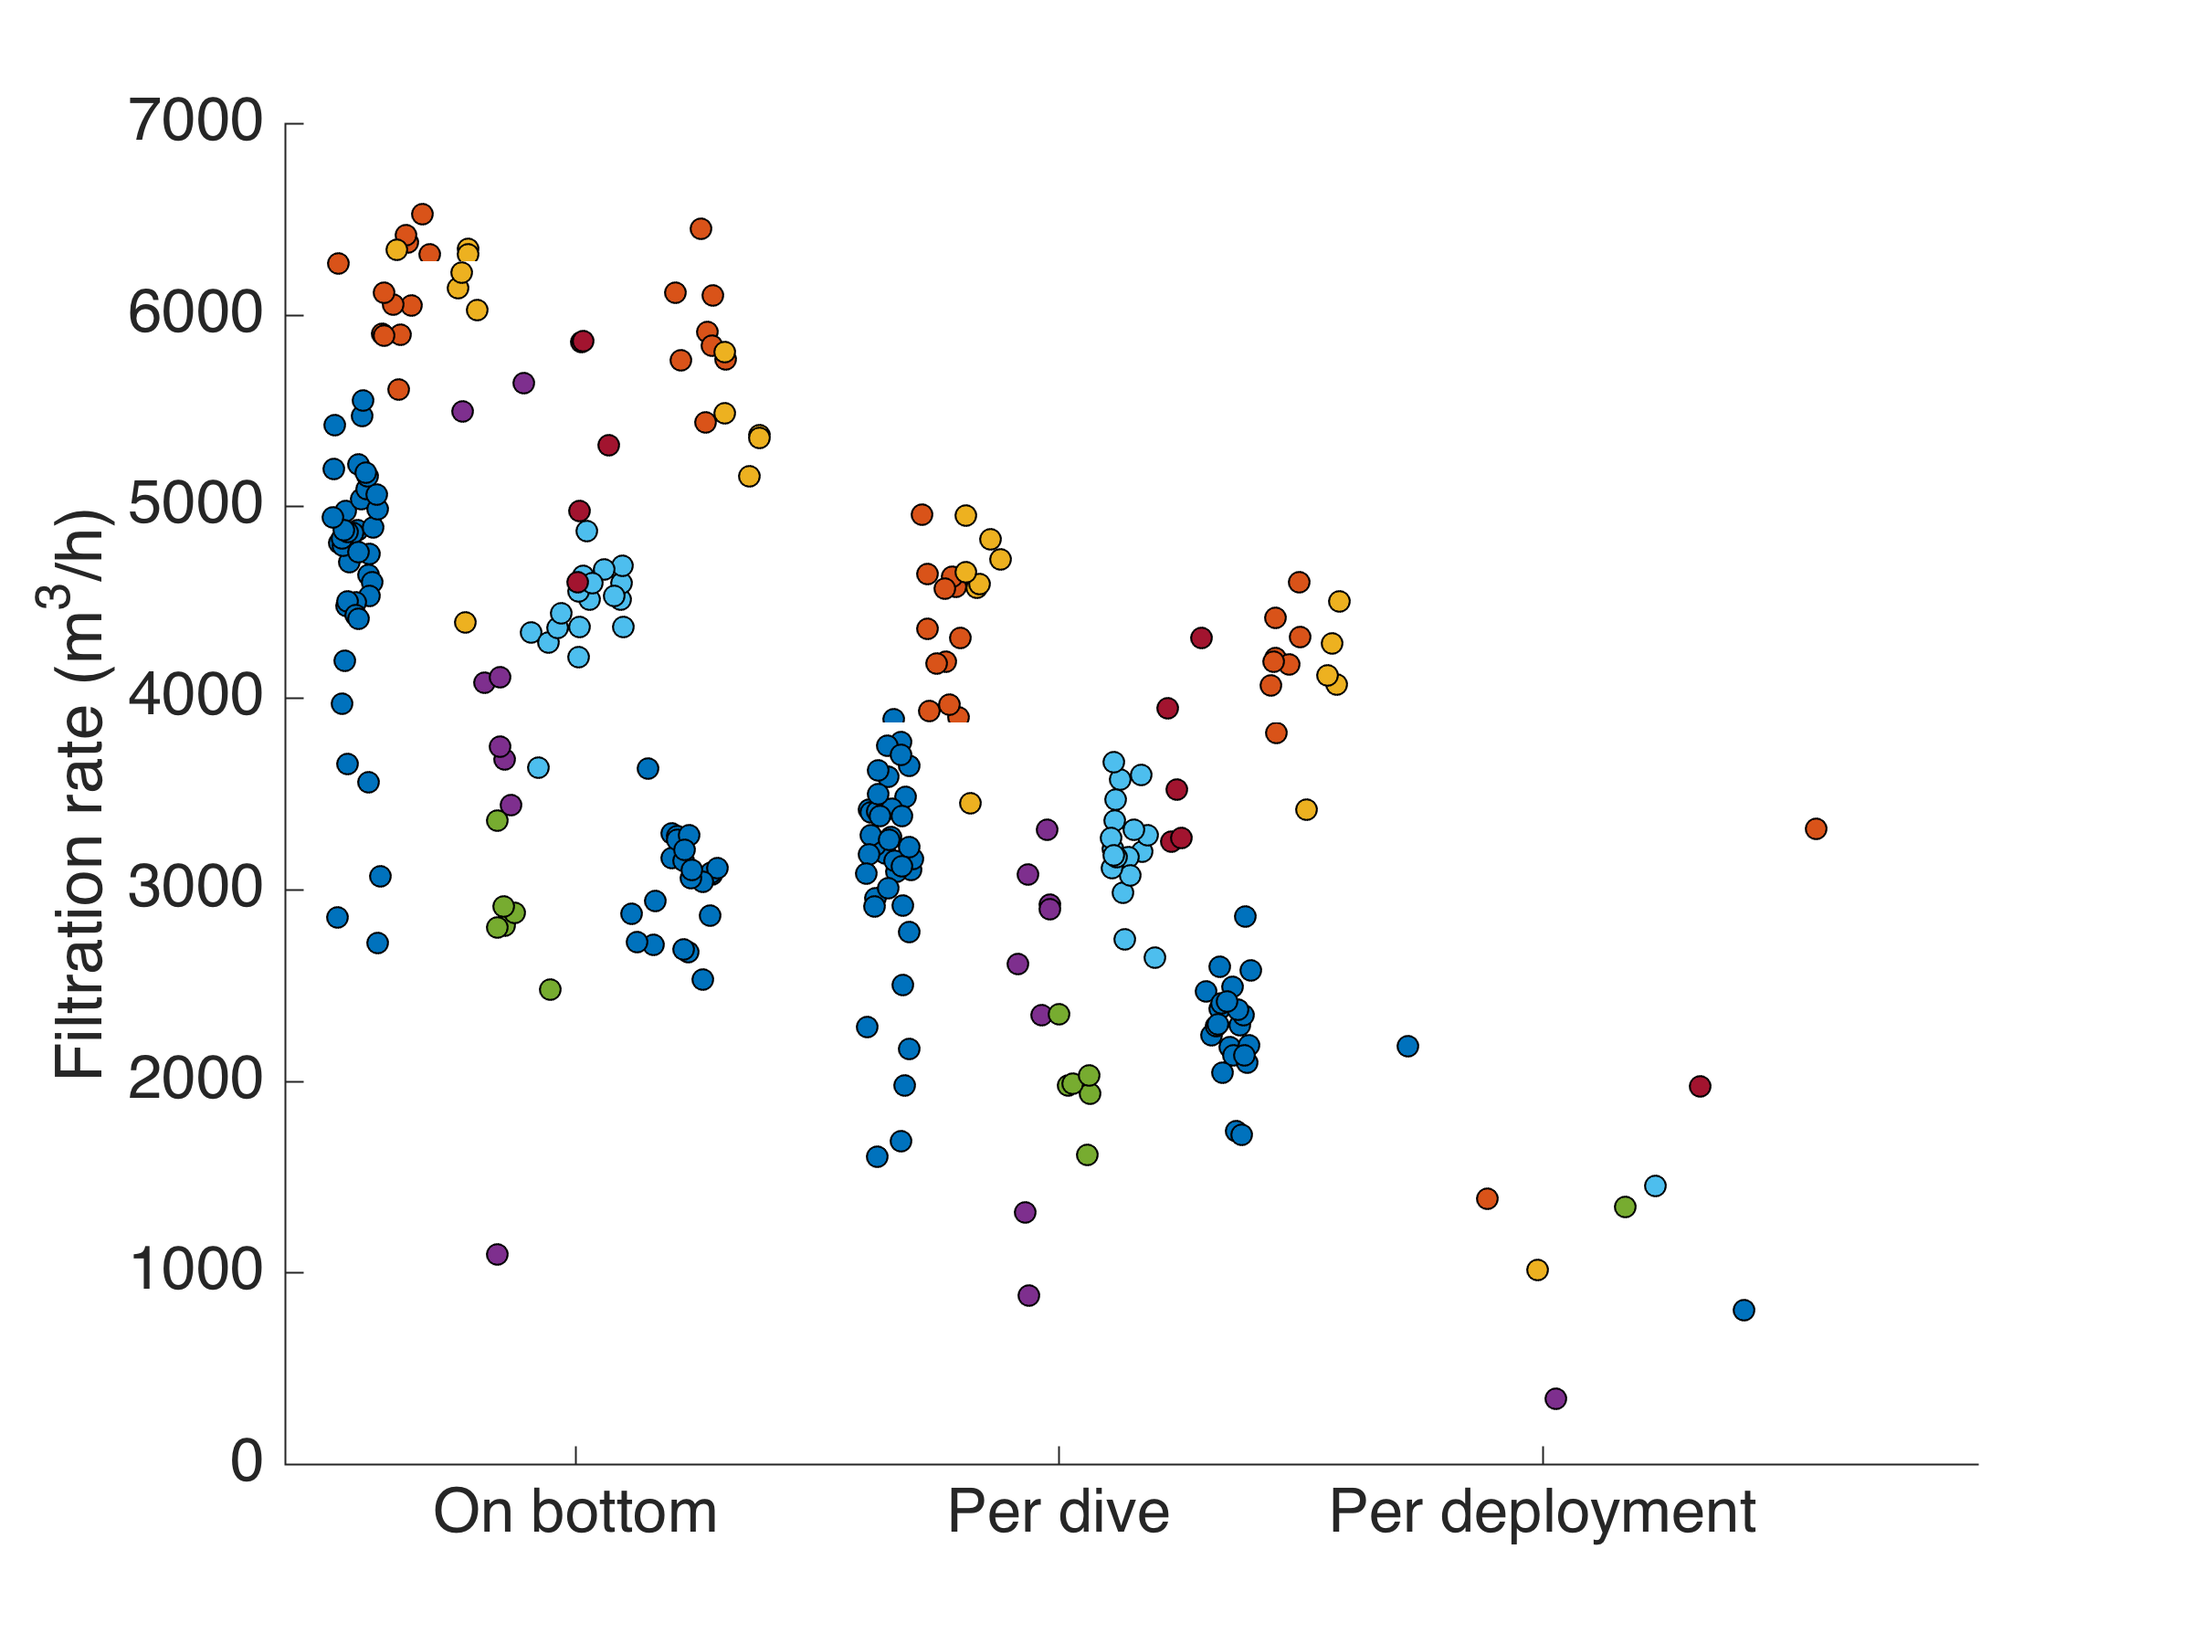
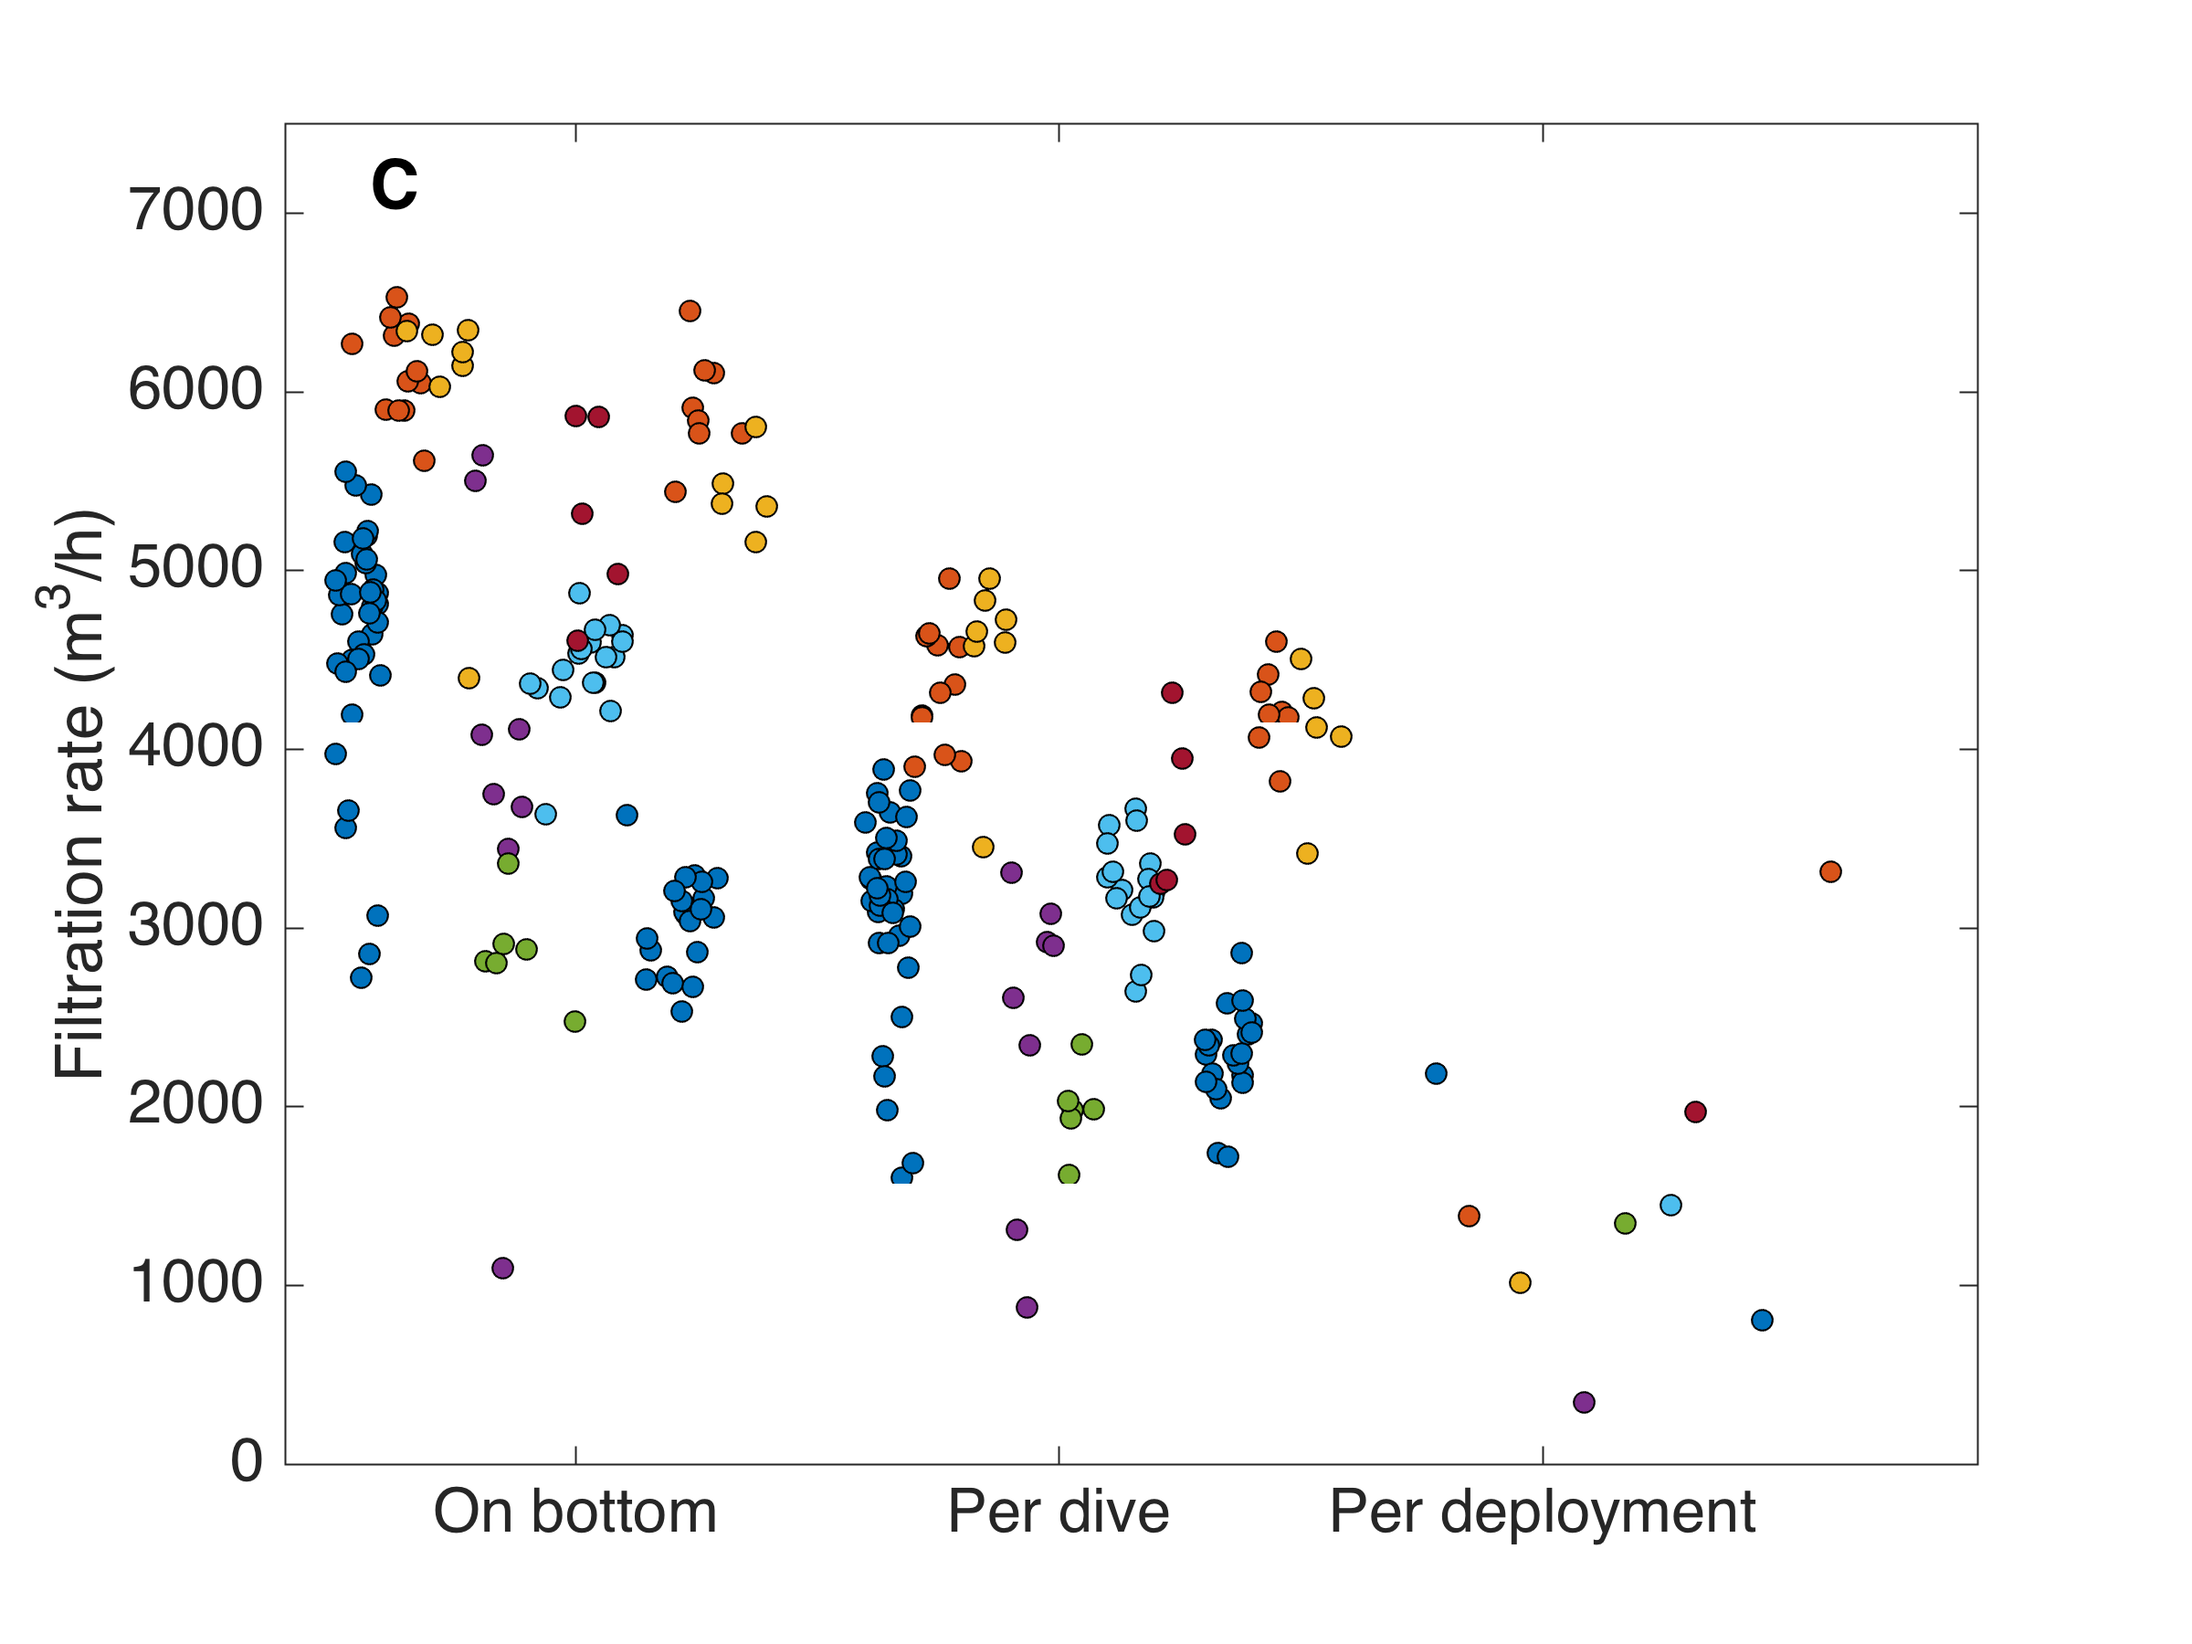
figure changes

diff --git a/NARW_plotAlldives.m b/NARW_plotAlldives.m
@@ -172,20 +172,15 @@ print('NARW_alldives_TOD_PB.png','-dpng','-r300')
 
 return
 
-figure(11), set(gcf,'paperpositionmode','auto','position',[4         289        1005         384])
-subplot('position',[0.07 0.1 0.35 0.8]), hold on
-plot(alldepth,allvperdive,'ro','linewidth',1.5)
+figure(11), % set(gcf,'paperpositionmode','auto','position',[4         289        1005         384])
+% subplot('position',[0.07 0.1 0.35 0.8]), hold on
+plot(alldepth,allvperdive,'ro','linewidth',1.5), hold on 
 plot(alldepth(allvperdive<1),allvperdive(allvperdive<1),'ko','linewidth',1.5)
-ylim([0 1700]), xlim([0 200])
+ylim([0 1400]), xlim([0 200])
 axletter(gca,'D')
 xlabel('Maximum dive depth (m)'), ylabel('Total volume filtered (m^3)')
 
 adjustfigurefont('helvetica',16)
-
-subplot('position',[0.5 0.1 0.2 0.8]), hold on
-xlim([400/60 1000/60]), axletter(gca,'E')
-subplot('position',[0.75 0.1 0.2 0.8]), hold on % plot duration vs. number of stops
-ylim([0 15]), xlim([0 1000/60]), axletter(gca,'F')
 
 print('NARW_boutregress.png','-dpng','-r300')
 

diff --git a/NARW_totalVolume.m b/NARW_totalVolume.m
@@ -326,12 +326,13 @@ plot(repmat(3,length(dep_filtrate),1)+rand(length(dep_filtrate),1),dep_filtrate,
 ylabel('Filtration rate (m^3/h)')
 adjustfigurefont('Helvetica',16)
 
-figure(101), clf, hold on
+figure(101), clf, hold on, box on
 scatterby(tagid2,3600*(allvperdive(allvperdive > 1)./allbtmdur(allvperdive > 1)),30,col(tagid2(find(allvperdive>1)),:));
 scatterby(11+tagid2(find(allvperdive>1)),dbd_vrate(allvperdive > 1),30,col(tagid2(find(allvperdive>1)),:));
 scatterby(22+[1:10],dep_filtrate,30,col(1:10,:));
 ylabel('Filtration rate (m^3/h)')
 set(gca,'xtick',6:10:26,'xticklabels',{'On bottom','Per dive','Per deployment'})
+ylim([0 7500]), axletter(gca,'C')
 adjustfigurefont('Helvetica',16)
 print -dpng NARW_filtrate -r300
 
